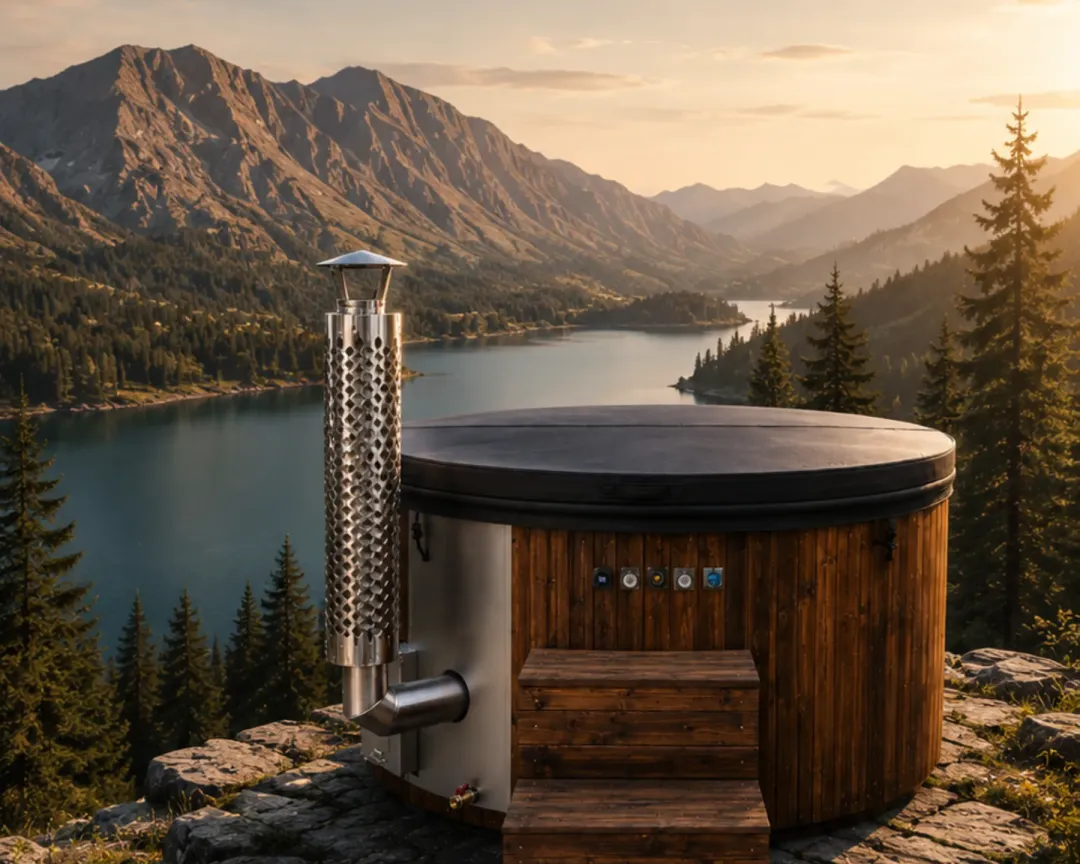
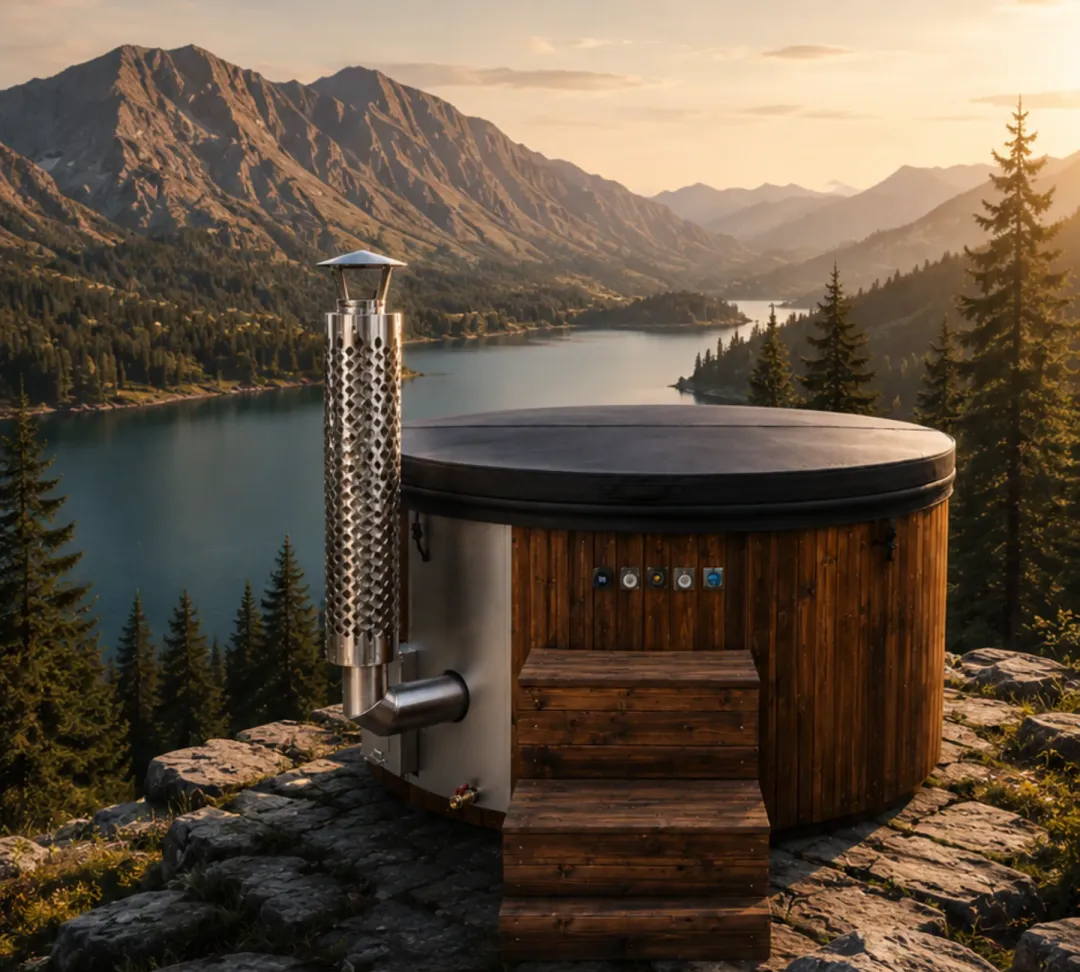
Galerie mobil: swipe + pinch + pan native (toate telefoanele) · hero mai luminos + mai mult prim-plan sub ciubăr
Lightbox:
- Swipe stânga/dreapta pentru schimbarea pozei (lipsea — mergea doar pe săgeți)
- Pinch cu 2 degete pentru zoom + pan cu un deget când e mărit + dublu-tap, prin listenere touch native non-passive (fiabile pe toate telefoanele)
- Butoanele de zoom ascunse pe mobil (gesturi naturale), păstrate pe desktop
- Eliminat tap-ul accidental de zoom pe imagine; hint adaptat mobil/desktop

Hero:
- Mai luminos (mobil brightness 1.2, desktop 1.18; saturație +6%)
- Decupare mobil 10:9 cu mai mult prim-plan sub ciubăr (ciubărul e mai bine așezat în peisaj)

diff --git a/src/components/Lightbox.tsx b/src/components/Lightbox.tsx
@@ -15,17 +15,20 @@ interface Props {
 const MIN = 1;
 const MAX = 4;
 const clamp = (v: number, lo: number, hi: number) => Math.min(Math.max(v, lo), hi);
+const SWIPE_THRESHOLD = 45; // px
 
 /**
- * Lightbox fullscreen cu zoom (scroll / butoane / dublu-click / pinch),
- * pan prin drag și navigare între imagini. Fără dependențe externe.
+ * Lightbox fullscreen. Pe mobil: pinch cu 2 degete (zoom), swipe stânga/dreapta
+ * (schimbă poza), drag cu un deget când e mărit (pan), dublu-tap (zoom).
+ * Gesturile folosesc listenere native non-passive ca să meargă pe toate
+ * telefoanele. Pe desktop: scroll/butoane/dublu-click pentru zoom, săgeți+tastatură.
  */
 export default function Lightbox({ images, index, alt, open, onClose, onIndexChange }: Props) {
   const [scale, setScale] = useState(1);
   const [pos, setPos] = useState({ x: 0, y: 0 });
-  const dragging = useRef(false);
+  const dragging = useRef(false); // pan cu mouse (desktop)
   const last = useRef({ x: 0, y: 0 });
-  const pinch = useRef<{ dist: number; scale: number } | null>(null);
+  const areaRef = useRef<HTMLDivElement>(null);
 
   const reset = useCallback(() => {
     setScale(1);
@@ -40,10 +43,15 @@ export default function Lightbox({ images, index, alt, open, onClose, onIndexCha
     [index, images.length, onIndexChange, reset],
   );
 
+  const toggleZoom = useCallback(() => {
+    setScale((s) => (s > 1 ? 1 : 2.5));
+    setPos({ x: 0, y: 0 });
+  }, []);
+
   // Focus trap + Escape + blocare scroll + restaurare focus (a11y).
   const dialogRef = useFocusTrap<HTMLDivElement>(open, onClose);
 
-  // Navigare cu săgeți (Escape/scroll-lock sunt gestionate de useFocusTrap).
+  // Navigare cu săgeți.
   useEffect(() => {
     if (!open) return;
     const onKey = (e: KeyboardEvent) => {
@@ -54,11 +62,123 @@ export default function Lightbox({ images, index, alt, open, onClose, onIndexCha
     return () => window.removeEventListener('keydown', onKey);
   }, [open, go]);
 
-  // Resetează zoom-ul când se schimbă imaginea sau se deschide
+  // Resetează zoom-ul când se schimbă imaginea sau se deschide.
   useEffect(() => {
     reset();
   }, [index, open, reset]);
 
+  // ── Gesturi touch (native, non-passive) ─────────────────────────────────
+  // Refs „live" ca efectul să depindă doar de `open` (fără closures învechite).
+  const scaleRef = useRef(scale);
+  scaleRef.current = scale;
+  const posRef = useRef(pos);
+  posRef.current = pos;
+  const goRef = useRef(go);
+  goRef.current = go;
+  const toggleRef = useRef(toggleZoom);
+  toggleRef.current = toggleZoom;
+
+  useEffect(() => {
+    if (!open) return;
+    const el = areaRef.current;
+    if (!el) return;
+
+    const g = {
+      mode: 'none' as 'none' | 'swipe' | 'pan' | 'pinch',
+      startX: 0,
+      startY: 0,
+      startPos: { x: 0, y: 0 },
+      pinchDist: 0,
+      pinchScale: 1,
+      dx: 0,
+      dy: 0,
+      lastTap: 0,
+    };
+    const distance = (a: Touch, b: Touch) => Math.hypot(a.clientX - b.clientX, a.clientY - b.clientY);
+
+    const onStart = (e: TouchEvent) => {
+      if (e.touches.length === 2) {
+        g.mode = 'pinch';
+        g.pinchDist = distance(e.touches[0], e.touches[1]);
+        g.pinchScale = scaleRef.current;
+        return;
+      }
+      const t = e.touches[0];
+      const now = e.timeStamp;
+      if (now - g.lastTap < 300) {
+        // dublu-tap → zoom
+        e.preventDefault();
+        toggleRef.current();
+        g.mode = 'none';
+        g.lastTap = 0;
+        return;
+      }
+      g.lastTap = now;
+      g.startX = t.clientX;
+      g.startY = t.clientY;
+      g.startPos = { ...posRef.current };
+      g.dx = 0;
+      g.dy = 0;
+      g.mode = scaleRef.current > 1 ? 'pan' : 'swipe';
+    };
+
+    const onMove = (e: TouchEvent) => {
+      if (g.mode === 'pinch' && e.touches.length === 2) {
+        e.preventDefault();
+        const d = distance(e.touches[0], e.touches[1]);
+        if (g.pinchDist > 0) {
+          setScale(clamp(+(g.pinchScale * (d / g.pinchDist)).toFixed(3), MIN, MAX));
+        }
+        return;
+      }
+      if (e.touches.length !== 1) return;
+      const t = e.touches[0];
+      g.dx = t.clientX - g.startX;
+      g.dy = t.clientY - g.startY;
+      if (g.mode === 'pan') {
+        e.preventDefault();
+        setPos({ x: g.startPos.x + g.dx, y: g.startPos.y + g.dy });
+      } else if (g.mode === 'swipe' && Math.abs(g.dx) > Math.abs(g.dy)) {
+        // swipe orizontal — blochează scroll-ul vertical
+        e.preventDefault();
+      }
+    };
+
+    const onEnd = (e: TouchEvent) => {
+      if (g.mode === 'swipe' && Math.abs(g.dx) > SWIPE_THRESHOLD && Math.abs(g.dx) > Math.abs(g.dy)) {
+        goRef.current(g.dx < 0 ? 1 : -1); // swipe stânga → poza următoare
+      }
+      if (e.touches.length === 0) {
+        if (g.mode === 'pinch' && scaleRef.current <= 1.05) {
+          setScale(1);
+          setPos({ x: 0, y: 0 });
+        }
+        g.mode = 'none';
+      } else if (e.touches.length === 1 && g.mode === 'pinch') {
+        // pinch → un deget rămas: continuă ca pan/swipe
+        const t = e.touches[0];
+        g.startX = t.clientX;
+        g.startY = t.clientY;
+        g.startPos = { ...posRef.current };
+        g.dx = 0;
+        g.dy = 0;
+        g.mode = scaleRef.current > 1 ? 'pan' : 'swipe';
+      }
+    };
+
+    el.addEventListener('touchstart', onStart, { passive: false });
+    el.addEventListener('touchmove', onMove, { passive: false });
+    el.addEventListener('touchend', onEnd, { passive: false });
+    el.addEventListener('touchcancel', onEnd, { passive: false });
+    return () => {
+      el.removeEventListener('touchstart', onStart);
+      el.removeEventListener('touchmove', onMove);
+      el.removeEventListener('touchend', onEnd);
+      el.removeEventListener('touchcancel', onEnd);
+    };
+  }, [open]);
+
+  // ── Zoom desktop (scroll/butoane) + pan cu mouse ─────────────────────────
   const zoomBy = (delta: number) => {
     setScale((s) => {
       const next = clamp(+(s + delta).toFixed(2), MIN, MAX);
@@ -66,50 +186,23 @@ export default function Lightbox({ images, index, alt, open, onClose, onIndexCha
       return next;
     });
   };
-
   const onWheel = (e: React.WheelEvent) => {
     e.preventDefault();
     zoomBy(e.deltaY > 0 ? -0.3 : 0.3);
   };
-
-  const toggleZoom = () => {
-    if (scale > 1) reset();
-    else setScale(2.5);
-  };
-
-  // Pan cu pointer (mouse / touch single)
+  // Pan doar cu mouse-ul (touch e gestionat de listenerele native de mai sus).
   const onPointerDown = (e: React.PointerEvent) => {
-    if (scale <= 1) return;
+    if (e.pointerType !== 'mouse' || scale <= 1) return;
     dragging.current = true;
     last.current = { x: e.clientX - pos.x, y: e.clientY - pos.y };
     (e.target as HTMLElement).setPointerCapture?.(e.pointerId);
   };
   const onPointerMove = (e: React.PointerEvent) => {
-    if (!dragging.current) return;
+    if (e.pointerType !== 'mouse' || !dragging.current) return;
     setPos({ x: e.clientX - last.current.x, y: e.clientY - last.current.y });
   };
   const onPointerUp = () => {
     dragging.current = false;
-  };
-
-  // Pinch-to-zoom (mobil)
-  const dist = (t: React.TouchList) =>
-    Math.hypot(t[0].clientX - t[1].clientX, t[0].clientY - t[1].clientY);
-  const onTouchStart = (e: React.TouchEvent) => {
-    if (e.touches.length === 2) pinch.current = { dist: dist(e.touches), scale };
-  };
-  const onTouchMove = (e: React.TouchEvent) => {
-    if (e.touches.length === 2 && pinch.current) {
-      e.preventDefault();
-      const ratio = dist(e.touches) / pinch.current.dist;
-      setScale(clamp(+(pinch.current.scale * ratio).toFixed(2), MIN, MAX));
-    }
-  };
-  const onTouchEnd = (e: React.TouchEvent) => {
-    if (e.touches.length < 2) {
-      pinch.current = null;
-      if (scale <= 1) setPos({ x: 0, y: 0 });
-    }
   };
 
   const hasMany = images.length > 1;
@@ -138,7 +231,7 @@ export default function Lightbox({ images, index, alt, open, onClose, onIndexCha
                 type="button"
                 onClick={() => zoomBy(-0.5)}
                 disabled={scale <= MIN}
-                className="grid h-11 w-11 place-items-center rounded-full border border-white/15 bg-white/5 text-cream transition hover:border-gold/50 disabled:opacity-40"
+                className="hidden h-11 w-11 place-items-center rounded-full border border-white/15 bg-white/5 text-cream transition hover:border-gold/50 disabled:opacity-40 sm:grid"
                 aria-label="Micșorează"
               >
                 <ZoomOut className="h-5 w-5" />
@@ -147,7 +240,7 @@ export default function Lightbox({ images, index, alt, open, onClose, onIndexCha
                 type="button"
                 onClick={() => zoomBy(0.5)}
                 disabled={scale >= MAX}
-                className="grid h-11 w-11 place-items-center rounded-full border border-white/15 bg-white/5 text-cream transition hover:border-gold/50 disabled:opacity-40"
+                className="hidden h-11 w-11 place-items-center rounded-full border border-white/15 bg-white/5 text-cream transition hover:border-gold/50 disabled:opacity-40 sm:grid"
                 aria-label="Mărește"
               >
                 <ZoomIn className="h-5 w-5" />
@@ -174,43 +267,33 @@ export default function Lightbox({ images, index, alt, open, onClose, onIndexCha
 
           {/* Zona imaginii */}
           <div
+            ref={areaRef}
             className="relative flex flex-1 select-none items-center justify-center overflow-hidden px-4"
+            style={{ touchAction: 'none' }}
             onWheel={onWheel}
             onClick={(e) => {
-              // închide doar dacă se dă click pe fundal, nu pe imagine
-              if (e.target === e.currentTarget) onClose();
+              if (e.target === e.currentTarget) onClose(); // tap pe fundal închide
             }}
           >
-            <motion.img
+            <img
               key={images[index]}
               src={images[index]}
               alt={`${alt} — imaginea ${index + 1}`}
               draggable={false}
               onDoubleClick={toggleZoom}
-              onClick={(e) => {
-                e.stopPropagation();
-                if (scale <= 1) toggleZoom();
-              }}
               onPointerDown={onPointerDown}
               onPointerMove={onPointerMove}
               onPointerUp={onPointerUp}
               onPointerLeave={onPointerUp}
-              onTouchStart={onTouchStart}
-              onTouchMove={onTouchMove}
-              onTouchEnd={onTouchEnd}
-              initial={{ opacity: 0, scale: 0.98 }}
-              animate={{ opacity: 1, scale: 1 }}
-              transition={{ duration: 0.2 }}
-              className="max-h-[78vh] max-w-full rounded-lg object-contain shadow-premium"
+              className="max-h-[80vh] max-w-full rounded-lg object-contain shadow-premium"
               style={{
                 transform: `translate(${pos.x}px, ${pos.y}px) scale(${scale})`,
                 cursor: scale > 1 ? (dragging.current ? 'grabbing' : 'grab') : 'zoom-in',
-                touchAction: 'none',
-                transition: dragging.current ? 'none' : 'transform 0.18s ease-out',
+                willChange: 'transform',
               }}
             />
 
-            {/* Săgeți navigare */}
+            {/* Săgeți navigare (utile pe desktop; pe mobil merge și swipe) */}
             {hasMany && (
               <>
                 <button
@@ -241,7 +324,7 @@ export default function Lightbox({ images, index, alt, open, onClose, onIndexCha
 
           {/* Thumbnails jos */}
           {hasMany && (
-            <div className="flex justify-center gap-2.5 px-4 py-5">
+            <div className="flex justify-center gap-2.5 overflow-x-auto px-4 py-5">
               {images.map((img, i) => (
                 <button
                   key={img + i}
@@ -250,7 +333,7 @@ export default function Lightbox({ images, index, alt, open, onClose, onIndexCha
                     reset();
                     onIndexChange(i);
                   }}
-                  className={`relative h-14 w-16 overflow-hidden rounded-lg border transition-all sm:h-16 sm:w-20 ${
+                  className={`relative h-14 w-16 shrink-0 overflow-hidden rounded-lg border transition-all sm:h-16 sm:w-20 ${
                     i === index ? 'border-gold ring-2 ring-gold/40' : 'border-white/10 opacity-60 hover:opacity-100'
                   }`}
                   aria-label={`Imaginea ${i + 1}`}
@@ -263,7 +346,8 @@ export default function Lightbox({ images, index, alt, open, onClose, onIndexCha
 
           {/* Hint */}
           <p className="pb-3 text-center text-[11px] text-sand/70">
-            Scroll, dublu-click sau pinch pentru zoom · trage pentru a muta imaginea
+            <span className="sm:hidden">Glisează pentru a schimba poza · apropie două degete pentru zoom</span>
+            <span className="hidden sm:inline">Scroll sau dublu-click pentru zoom · trage pentru a muta imaginea</span>
           </p>
         </motion.div>
       )}

diff --git a/src/components/Hero.tsx b/src/components/Hero.tsx
@@ -50,10 +50,10 @@ export default function Hero() {
             sizes="100vw"
             alt="Ciubăr premium PMPFiber pe malul unui lac de munte, la apus"
             width={1800}
-            height={1440}
+            height={1620}
             fetchPriority="high"
             decoding="async"
-            className="aspect-[5/4] w-full object-cover [filter:brightness(1.12)_saturate(1.04)]"
+            className="aspect-[10/9] w-full object-cover [filter:brightness(1.2)_saturate(1.06)]"
           />
           {/* Scrim sus pentru navbar */}
           <div className="pointer-events-none absolute inset-x-0 top-0 h-28 bg-gradient-to-b from-ink-950/75 to-transparent" />
@@ -100,7 +100,7 @@ export default function Hero() {
           height={1014}
           fetchPriority="high"
           decoding="async"
-          className="absolute inset-0 -z-10 h-full w-full object-cover [filter:brightness(1.1)_saturate(1.04)]"
+          className="absolute inset-0 -z-10 h-full w-full object-cover [filter:brightness(1.18)_saturate(1.06)]"
         />
         <div className="absolute inset-0 -z-10 bg-gradient-to-r from-ink-950/70 via-ink-950/30 to-transparent" />
         <div className="absolute inset-0 -z-10 bg-gradient-to-t from-ink-950/55 via-transparent to-ink-950/10" />